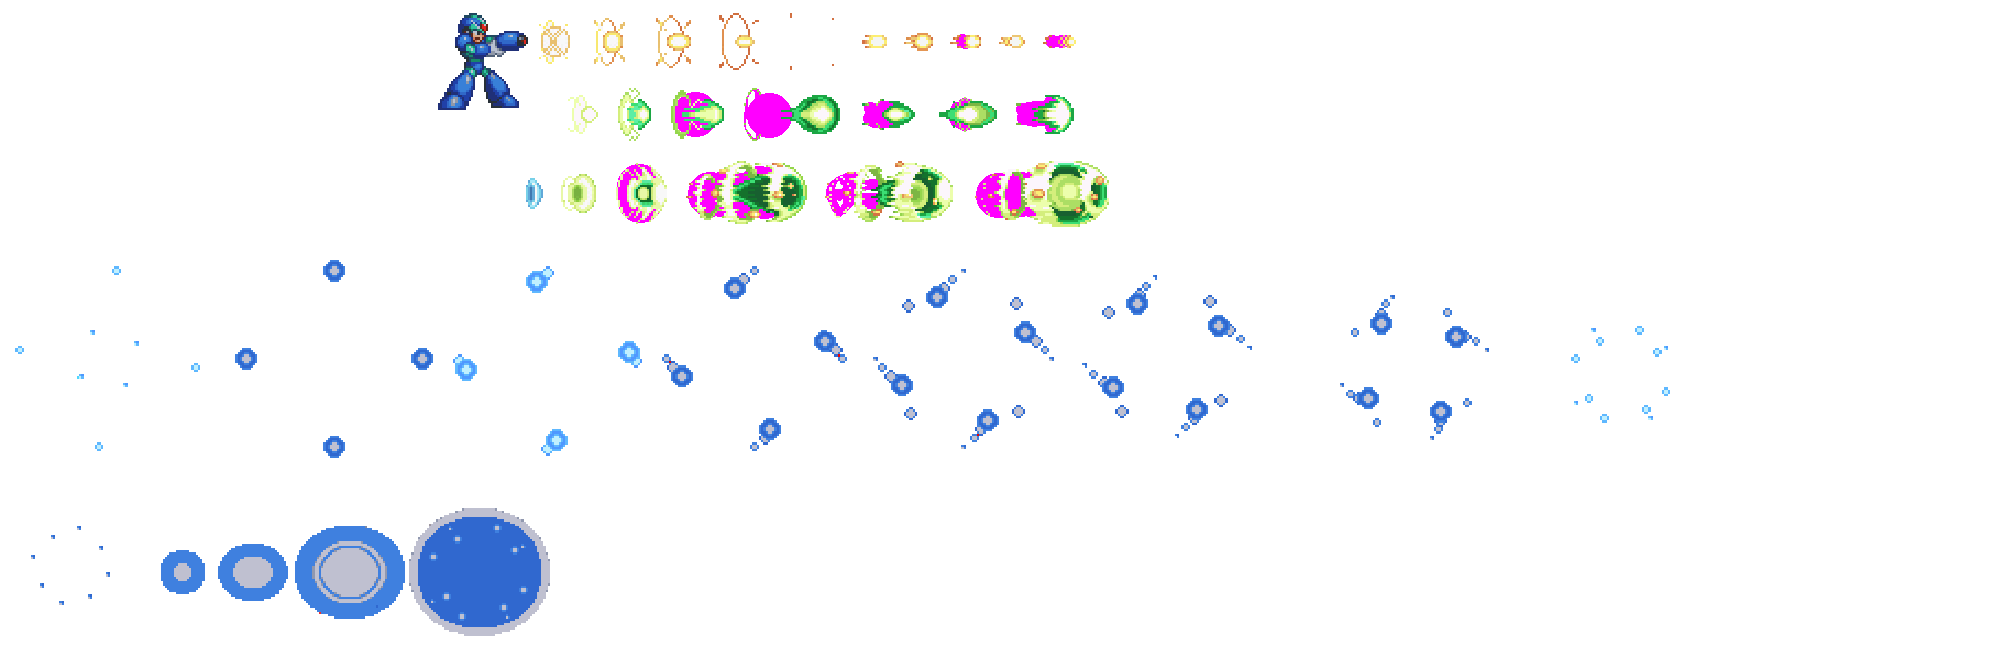
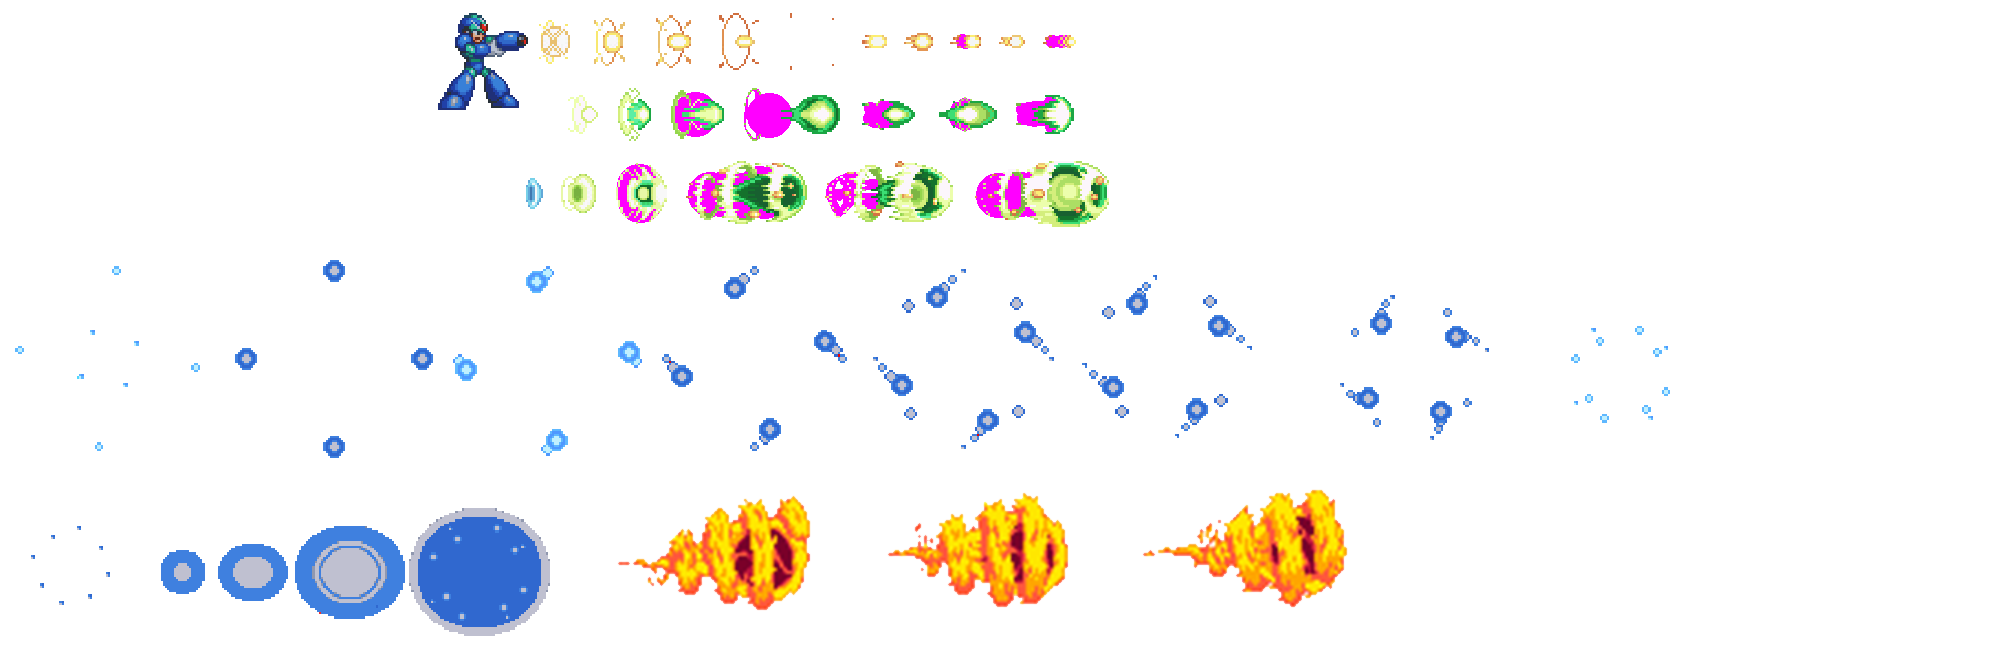
Bowser shoots fireballs.

Changed region(s): [[0.434, 0.7442, 0.682, 0.9612], [0.31, 0.7752, 0.403, 0.9612]]

diff --git a/bullet.cpp b/bullet.cpp
@@ -29,7 +29,7 @@ bool Bullet::initialize(Game *gamePtr, int width, int height, int ncols,
 	TextureManager *textureM)
 {
 	// bullet sprite initialize
-	bulletSpriteCoordinates.populateVector("pictures\\bulletsprites.xml");
+	bulletSpriteCoordinates.populateVector("pictures\\bulletsprites2.xml");
 	if (!initializeCoords(bulletSpriteCoordinates))
 		throw(GameError(gameErrorNS::FATAL_ERROR, "Error initializing bullets"));
 
@@ -50,12 +50,14 @@ bool Bullet::initialize(Game *gamePtr, int width, int height, int ncols,
 	bulletSmall.setFrameDelay(bulletNS::SMALL_CHARGE_ANIMATION_DELAY);
 
 	//Large Charge
-	bulletLarge.initialize(gamePtr->getGraphics(), bulletNS::WIDTH,
+	fireball.initialize(gamePtr->getGraphics(), bulletNS::WIDTH,
 		bulletNS::HEIGHT, 1, textureM);
-	bulletLarge.initialize(bulletSpriteCoordinates);
-	bulletLarge.setFrames(bulletNS::LARGE_CHARGE_START_FRAME, bulletNS::LARGE_CHARGE_END_FRAME);
-	bulletLarge.setCurrentFrame(bulletNS::LARGE_CHARGE_START_FRAME);
-	bulletLarge.setFrameDelay(bulletNS::LARGE_CHARGE_ANIMATION_DELAY);
+	fireball.initialize(bulletSpriteCoordinates);
+	fireball.setFrames(bulletNS::FIREBALL_START_FRAME, bulletNS::FIREBALL_END_FRAME);
+	fireball.setCurrentFrame(bulletNS::FIREBALL_START_FRAME);
+	fireball.setFrameDelay(bulletNS::FIREBALL_ANIMATION_DELAY);
+
+	//Fireball
 
 	return(Entity::initialize(gamePtr, width, height, ncols, textureM));
 }
@@ -72,11 +74,23 @@ void Bullet::setInitialY(double initialY, bool wallSliding, bool dashing)
 		initialY_ = initialY + 15;
 		audio->playCue(FIRE);
 	}
-	else
+	else if (spriteData.shotType == MEDIUM_CHARGE)
 	{
 		initialY_ = initialY;
 		audio->playCue(FIRE);
 	}
+	else if (spriteData.shotType == FIREBALL)
+	{
+		initialY_ = initialY;
+		spriteData.width = 205;           // size of fireballs
+		spriteData.height = 120;
+		edge.top = -spriteData.height / 2;			// set collision edges
+		edge.bottom = spriteData.height / 2;
+		edge.left = -spriteData.width / 3;
+		edge.right = spriteData.width / 3;
+		audio->playCue(FIRE);
+	}
+
 	if (wallSliding)
 	{
 		initialY_ += 30;
@@ -98,6 +112,7 @@ void Bullet::update(float frameTime)
 	regularBullet.update(frameTime);
 	bulletSmall.update(frameTime);
 	bulletLarge.update(frameTime);
+	fireball.update(frameTime);
 }
 
 void Bullet::draw()
@@ -119,5 +134,9 @@ void Bullet::draw()
 		bulletLarge.draw(spriteData);
 		audio->stopCue(LOAD);
 		//audio->playCue(MAXFIRE);
+	}
+	else if (spriteData.shotType == FIREBALL)
+	{
+		fireball.draw(spriteData);
 	}
 }

diff --git a/Level1.cpp b/Level1.cpp
@@ -48,6 +48,10 @@ void Level1::initializeAdditional(HWND& hwnd, Graphics* graphics, Input* input, 
 	tile.setFrames(0, 0);
 	tile.setCurrentFrame(0);
 
+	//bullet
+	if (!fireball.initialize(game, bulletNS::WIDTH, bulletNS::HEIGHT, 0, &bulletTexture))
+		throw(GameError(gameErrorNS::FATAL_ERROR, "Error initializing fireball"));
+
 	// floors
 	for (int i = 0; i < TILE_ROWS; i++)
 	{
@@ -135,6 +139,27 @@ void Level1::update(float frameTime, Input* input, Game* game)
 	{
 		levelComplete_ = true;
 	}
+
+	if (fireball.getVisible() && fireball.getActive())
+	{
+		if (fireball.getDirection() == RIGHT)
+		{
+			fireball.setX(fireball.getX() + bulletNS::SPEED*frameTime);
+			fireball.flipHorizontal(false);
+		}
+		else
+		{
+			fireball.flipHorizontal(true);
+			fireball.setX(fireball.getX() - bulletNS::SPEED*frameTime);
+		}
+		fireball.update(frameTime);
+		if (fireball.getX() > GAME_WIDTH || fireball.getX() < 0)
+		{
+			fireball.setVisible(false);
+			fireball.setActive(false);
+		}
+	}
+
 	// Level specific code goes here
 }
 
@@ -144,6 +169,14 @@ void Level1::ai()
 	{
 		enemy[bossIndex]->setVelocity(VECTOR2(0, -400));
 		enemy[bossIndex]->setFloorCollision(false);
+		fireball.setShotType(FIREBALL);
+		fireball.setActive(true);
+		fireball.setVisible(true);
+		fireball.setDirection(enemy[bossIndex]->getDirection());
+		fireball.setX(enemy[bossIndex]->getX());
+		fireball.setInitialY(enemy[bossIndex]->getY(), false, false);
+		fireball.setY(enemy[bossIndex]->getY());
+		
 	}
 }
 
@@ -209,7 +242,10 @@ void Level1::collisions(float frameTime)
 			}
 		}
 	}
-
+	if (megaman.collidesWith(fireball, cv) && !megaman.isInvincible() && megaman.getState() != DAMAGED)
+	{
+		megaman.damage(BOSS_PROJECTILE);
+	}
 	if (megamanCollided)
 	{
 		megaman.stop(collisionVector, tileCoordinates);		// Sets Mega Man's position and status after a collision
@@ -346,6 +382,11 @@ void Level1::render(Graphics* graphics)
 	megaman.draw();							// add Mega Man to the scene
 	chargingSprites.draw();					// add Mega Man's charging sprites to the scene
 
+	if (fireball.getVisible())
+	{
+		fireball.draw();
+	}
+
 	for (int i = 0; i < bullet.size(); i++)
 	{
 		if (bullet[i].getVisible() && bullet[i].getActive())
@@ -356,7 +397,7 @@ void Level1::render(Graphics* graphics)
 	healthBar.setX((float)levelsNS::HEALTHBAR_X);
 	healthBar.set(megaman.getHealth());
 	healthBar.draw(levelsNS::MEGAMAN_HEALTHBAR_COLOR);
-
+	
 	graphics->spriteEnd();                  // end drawing sprites
 }
 

diff --git a/bullet.h b/bullet.h
@@ -27,6 +27,10 @@ namespace bulletNS
 	const int LARGE_CHARGE_END_FRAME = 25;
 	const float LARGE_CHARGE_ANIMATION_DELAY = 0.07f;
 
+	const int FIREBALL_START_FRAME = 85;
+	const int FIREBALL_END_FRAME = 87;
+	const float FIREBALL_ANIMATION_DELAY = 0.07f;
+
 }
 
 // inherits from Entity class
@@ -52,6 +56,7 @@ public:
 	Image regularBullet;
 	Image bulletSmall;
 	Image bulletLarge;
+	Image fireball;
 
 private:
 	double initialY_;

diff --git a/Level1.h b/Level1.h
@@ -74,6 +74,7 @@ protected:
 	// level1 items
 	TextureManager beeTexture;			// bee texture
 	TextureManager bowserTexture;		// Bowser texture
+	Bullet fireball;
 
 public:
 	Level1();

diff --git a/constants.h b/constants.h
@@ -90,7 +90,8 @@ enum ShotType
 	NONE,
 	REGULAR_SHOT,
 	SMALL_CHARGE,
-	MEDIUM_CHARGE
+	MEDIUM_CHARGE,
+	FIREBALL
 };
 
 enum Direction
